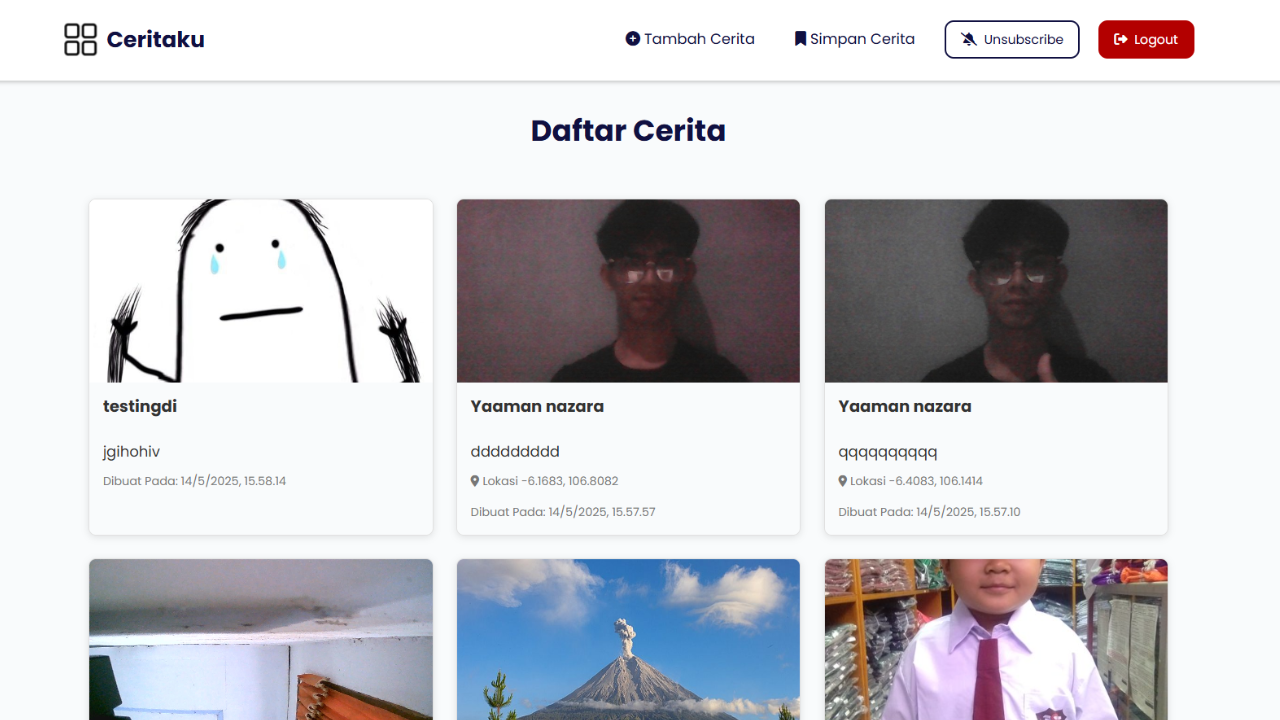
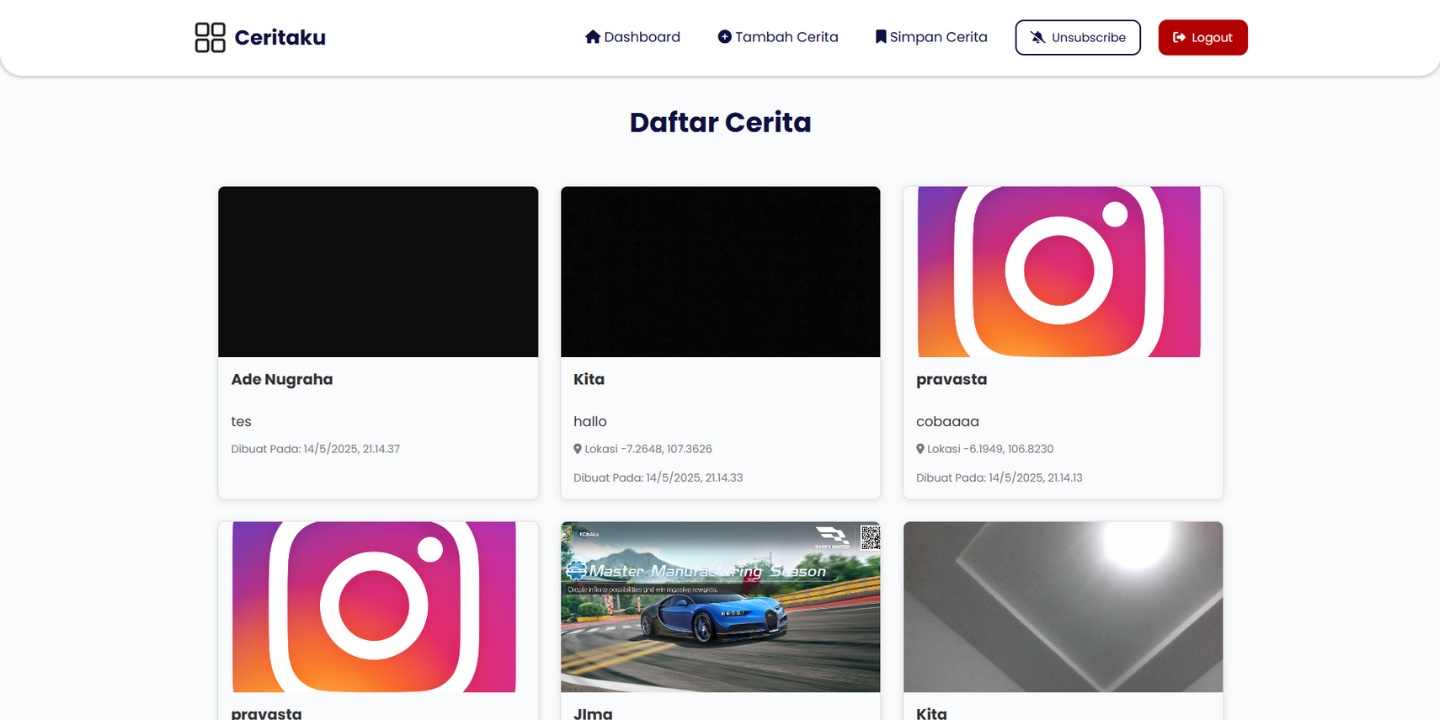
Update PWA

diff --git a/src/scripts/sw.js b/src/scripts/sw.js
@@ -1,8 +1,12 @@
-import { precacheAndRoute } from 'workbox-precaching';
+import { precacheAndRoute } from "workbox-precaching";
 
-import { registerRoute } from 'workbox-routing';
-import { NetworkFirst, CacheFirst } from 'workbox-strategies';
-import { CacheableResponsePlugin } from 'workbox-cacheable-response';
+import { registerRoute } from "workbox-routing";
+import {
+  NetworkFirst,
+  CacheFirst,
+  StaleWhileRevalidate,
+} from "workbox-strategies";
+import { CacheableResponsePlugin } from "workbox-cacheable-response";
 
 // Do precaching
 precacheAndRoute(self.__WB_MANIFEST);
@@ -10,59 +14,53 @@ precacheAndRoute(self.__WB_MANIFEST);
 // API stories
 registerRoute(
   ({ url }) =>
-    url.origin === 'https://story-api.dicoding.dev' &&
-    url.pathname.startsWith('/v1/stories'),
+    url.origin === "https://story-api.dicoding.dev" &&
+    url.pathname.startsWith("/v1/stories"),
   new NetworkFirst({
-    cacheName: 'story-api-cache',
-    networkTimeoutSeconds: 3,
+    cacheName: "story-api-cache",
     plugins: [new CacheableResponsePlugin({ statuses: [0, 200] })],
   }),
 );
 registerRoute(
   ({ url }) =>
-    url.origin === 'https://story-api.dicoding.dev' &&
-    url.pathname.startsWith('/images/stories/'),
-  new CacheFirst({
-    cacheName: 'story-images-cache',
-    plugins: [
-      new CacheableResponsePlugin({ statuses: [0, 200] }),
-    ],
-  })
+    url.origin === "https://story-api.dicoding.dev" &&
+    url.pathname.startsWith("/images/stories/"),
+  new StaleWhileRevalidate({
+    cacheName: "story-images-cache",
+    plugins: [new CacheableResponsePlugin({ statuses: [0, 200] })],
+  }),
 );
 
 // Google Fonts & FontAwesome
 registerRoute(
   ({ url }) =>
-    url.origin === 'https://fonts.googleapis.com' ||
-    url.origin === 'https://fonts.gstatic.com',
-  new CacheFirst({ cacheName: 'google-fonts' }),
+    url.origin === "https://fonts.googleapis.com" ||
+    url.origin === "https://fonts.gstatic.com",
+  new CacheFirst({ cacheName: "google-fonts" }),
 );
 registerRoute(
   ({ url }) =>
-    url.origin === 'https://cdnjs.cloudflare.com' ||
-    url.origin.includes('fontawesome'),
-  new CacheFirst({ cacheName: 'fontawesome' }),
+    url.origin === "https://cdnjs.cloudflare.com" ||
+    url.origin.includes("fontawesome"),
+  new CacheFirst({ cacheName: "fontawesome" }),
 );
 
 // Leaflet CDN
 registerRoute(
   ({ url }) =>
-    url.origin === 'https://unpkg.com' &&
-    url.pathname.startsWith('/leaflet@'),
+    url.origin === "https://unpkg.com" && url.pathname.startsWith("/leaflet@"),
   new CacheFirst({
-    cacheName: 'leaflet-cdn-cache',
+    cacheName: "leaflet-cdn-cache",
     plugins: [new CacheableResponsePlugin({ statuses: [0, 200] })],
   }),
 );
 
 // OpenStreetMap Tiles
 registerRoute(
-  ({ url }) => url.origin === 'https://tile.openstreetmap.org',
+  ({ url }) => url.origin === "https://tile.openstreetmap.org",
   new CacheFirst({
-    cacheName: 'osm-tiles-cache',
-    plugins: [
-      new CacheableResponsePlugin({ statuses: [0, 200] }),
-    ],
+    cacheName: "osm-tiles-cache",
+    plugins: [new CacheableResponsePlugin({ statuses: [0, 200] })],
   }),
 );
 

diff --git a/webpack.prod.js b/webpack.prod.js
@@ -2,9 +2,8 @@ const common = require("./webpack.common.js");
 const { merge } = require("webpack-merge");
 const { CleanWebpackPlugin } = require("clean-webpack-plugin");
 const MiniCssExtractPlugin = require("mini-css-extract-plugin");
-const path = require('path');
-const { InjectManifest } = require('workbox-webpack-plugin');
-
+const path = require("path");
+const { InjectManifest } = require("workbox-webpack-plugin");
 
 module.exports = merge(common, {
   mode: "production",
@@ -29,11 +28,11 @@ module.exports = merge(common, {
     ],
   },
   plugins: [
-    new CleanWebpackPlugin(), 
+    new CleanWebpackPlugin(),
     new MiniCssExtractPlugin(),
     new InjectManifest({
-      swSrc: path.resolve(__dirname, 'src/scripts/sw.js'),
-      swDest: 'sw.bundle.js',
+      swSrc: path.resolve(__dirname, "src/scripts/sw.js"),
+      swDest: "sw.bundle.js",
     }),
   ],
 });

diff --git a/src/scripts/data/database.js b/src/scripts/data/database.js
@@ -1,0 +1,28 @@
+import { openDB } from "idb";
+
+const DATABASE_NAME = "ceritaku";
+const DATABASE_VERSION = 1;
+const STORE_NAME = "saved-stories";
+
+const dbPromise = openDB(DATABASE_NAME, DATABASE_VERSION, {
+  upgrade(db) {
+    if (!db.objectStoreNames.contains(STORE_NAME)) {
+      db.createObjectStore(STORE_NAME, { keyPath: "id" });
+    }
+  },
+});
+
+export const saveStory = async (story) => {
+  const db = await dbPromise;
+  await db.put(STORE_NAME, story);
+};
+
+export const getAllStories = async () => {
+  const db = await dbPromise;
+  return db.getAll(STORE_NAME);
+};
+
+export const deleteStory = async (id) => {
+  const db = await dbPromise;
+  return db.delete(STORE_NAME, id);
+};

diff --git a/src/index.html b/src/index.html
@@ -26,9 +26,9 @@
 
     <title>Ceritaku</title>
 
-      <link rel="shortcut icon" href="favicon.png" />
-      <link rel="apple-touch-icon" href="favicon.png" />
-      <link rel="manifest" href="app.webmanifest" />
+    <link rel="shortcut icon" href="favicon.png" />
+    <link rel="apple-touch-icon" href="favicon.png" />
+    <link rel="manifest" href="app.webmanifest" />
   </head>
   <body>
     <!-- Skip to Content -->

diff --git a/src/scripts/templates.js b/src/scripts/templates.js
@@ -14,6 +14,11 @@ export function generateSubscribeButtonTemplate(isSubscribed = false) {
 
 export function generateAuthenticatedNavigationListTemplate() {
   return `
+        <li>
+        <a href="#/" id="home-button">
+          <i class="fas fa-home"></i> Dashboard
+        </a>
+      </li>
       <li>
         <a href="#/add" id="add-button">
           <i class="fas fa-plus-circle"></i> Tambah Cerita

diff --git a/src/scripts/index.js b/src/scripts/index.js
@@ -15,7 +15,7 @@ document.addEventListener("DOMContentLoaded", async () => {
   await registerServiceWorker();
 
   // for demonstration purpose-only
-  console.log('Berhasil mendaftarkan service worker.');
+  console.log("Berhasil mendaftarkan service worker.");
 
   window.addEventListener("hashchange", async () => {
     await app.renderPage();

diff --git a/src/scripts/pages/auth/login/login-presenter.js b/src/scripts/pages/auth/login/login-presenter.js
@@ -14,7 +14,6 @@ class LoginPresenter {
       return;
     }
 
-
     try {
       const { error, loginResult } = await login({ email, password });
 
